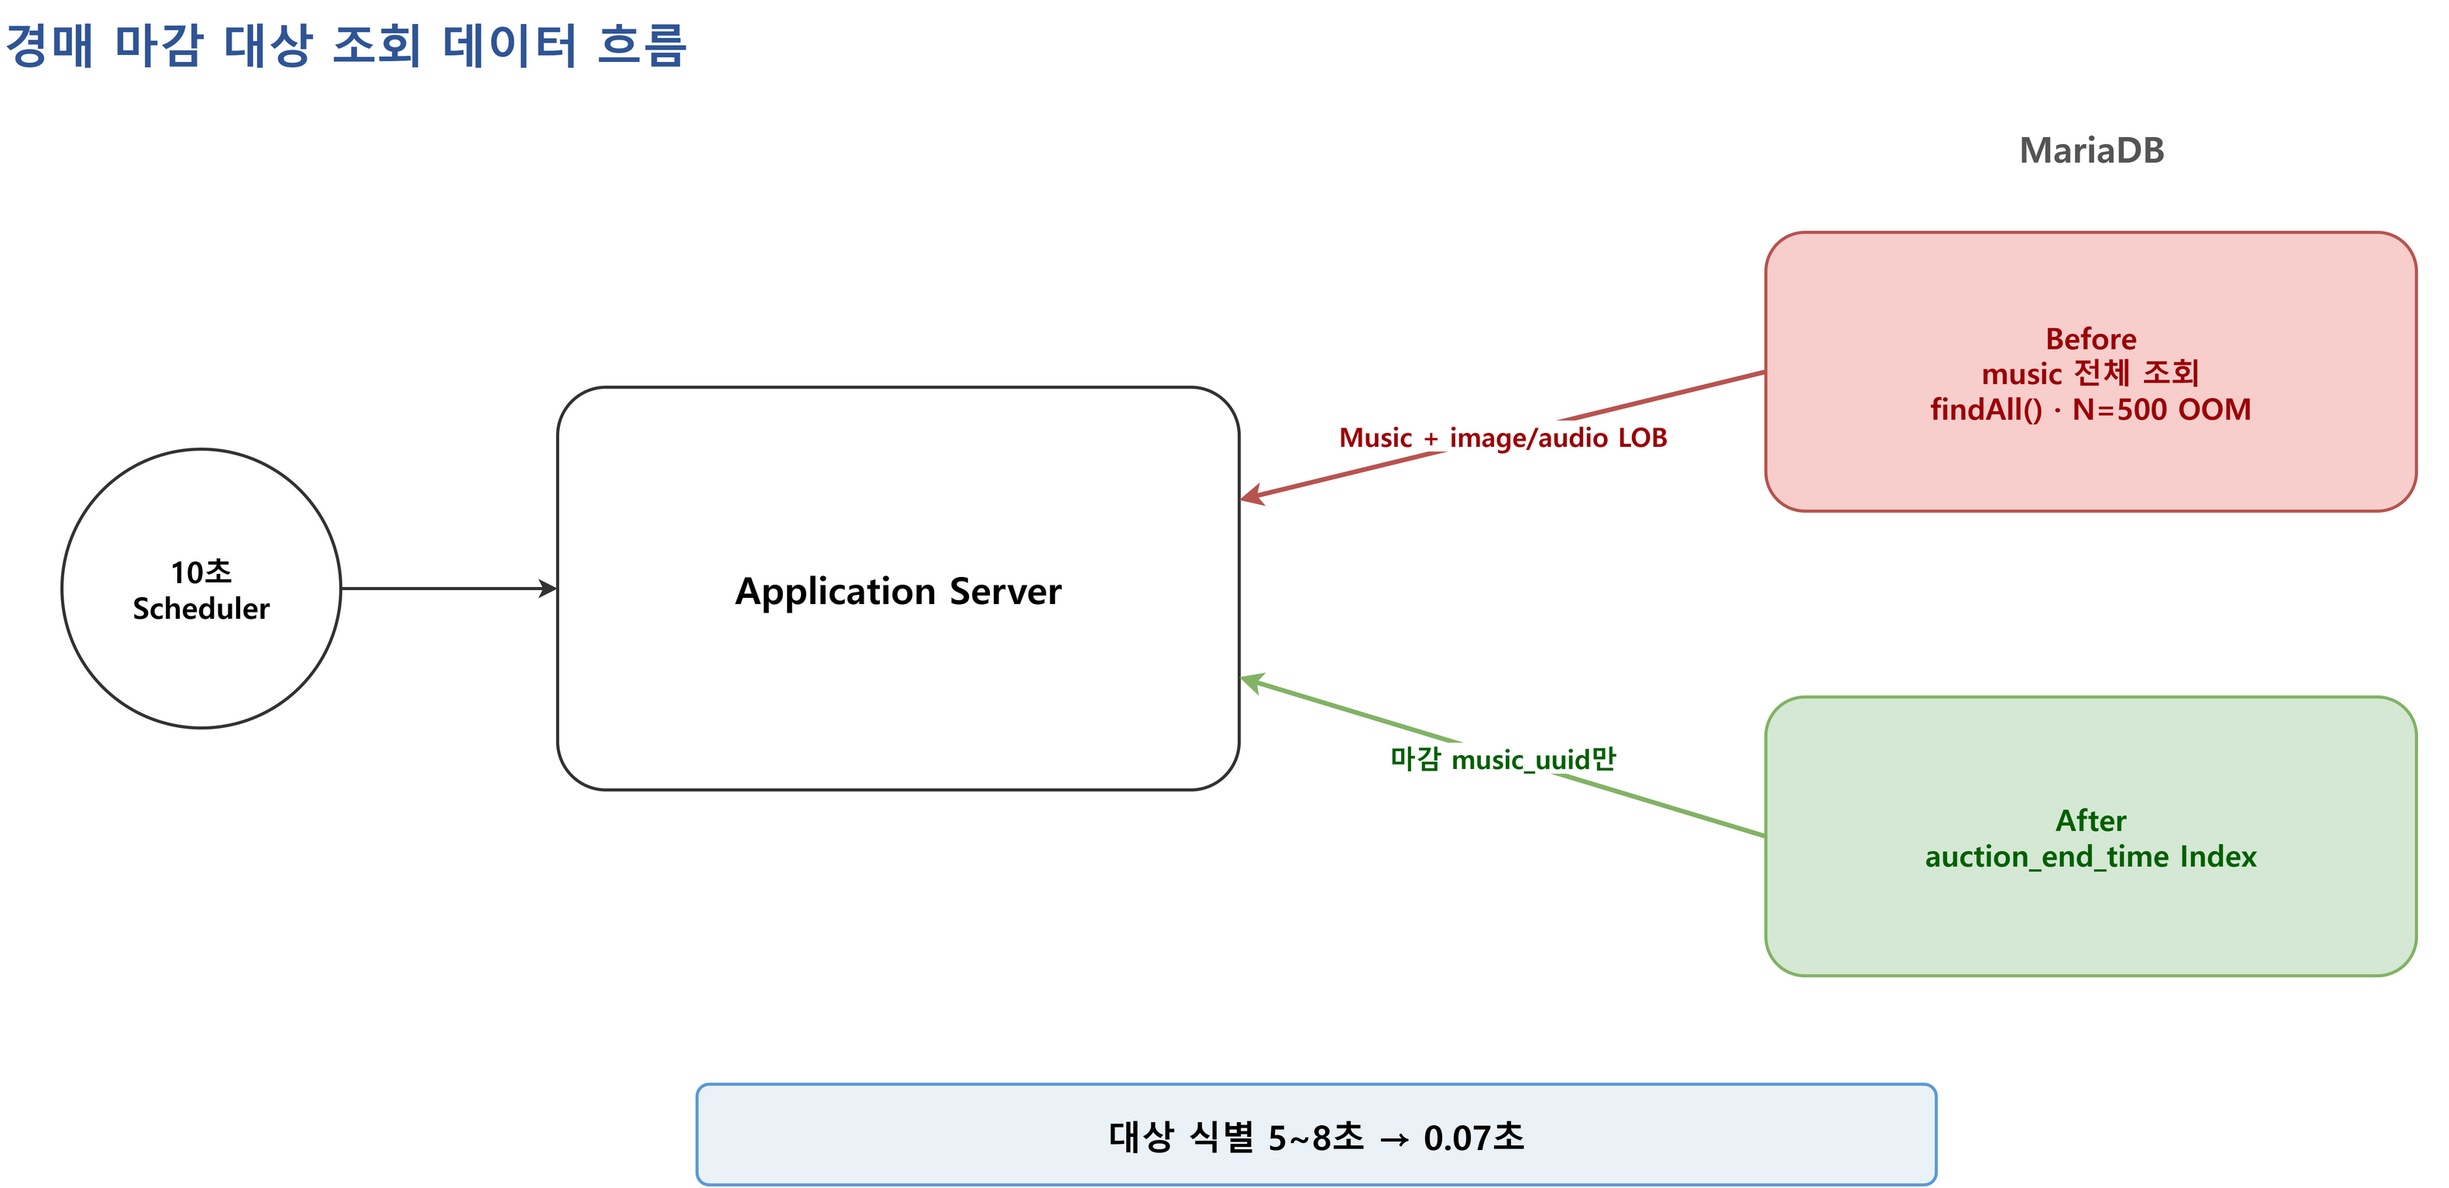
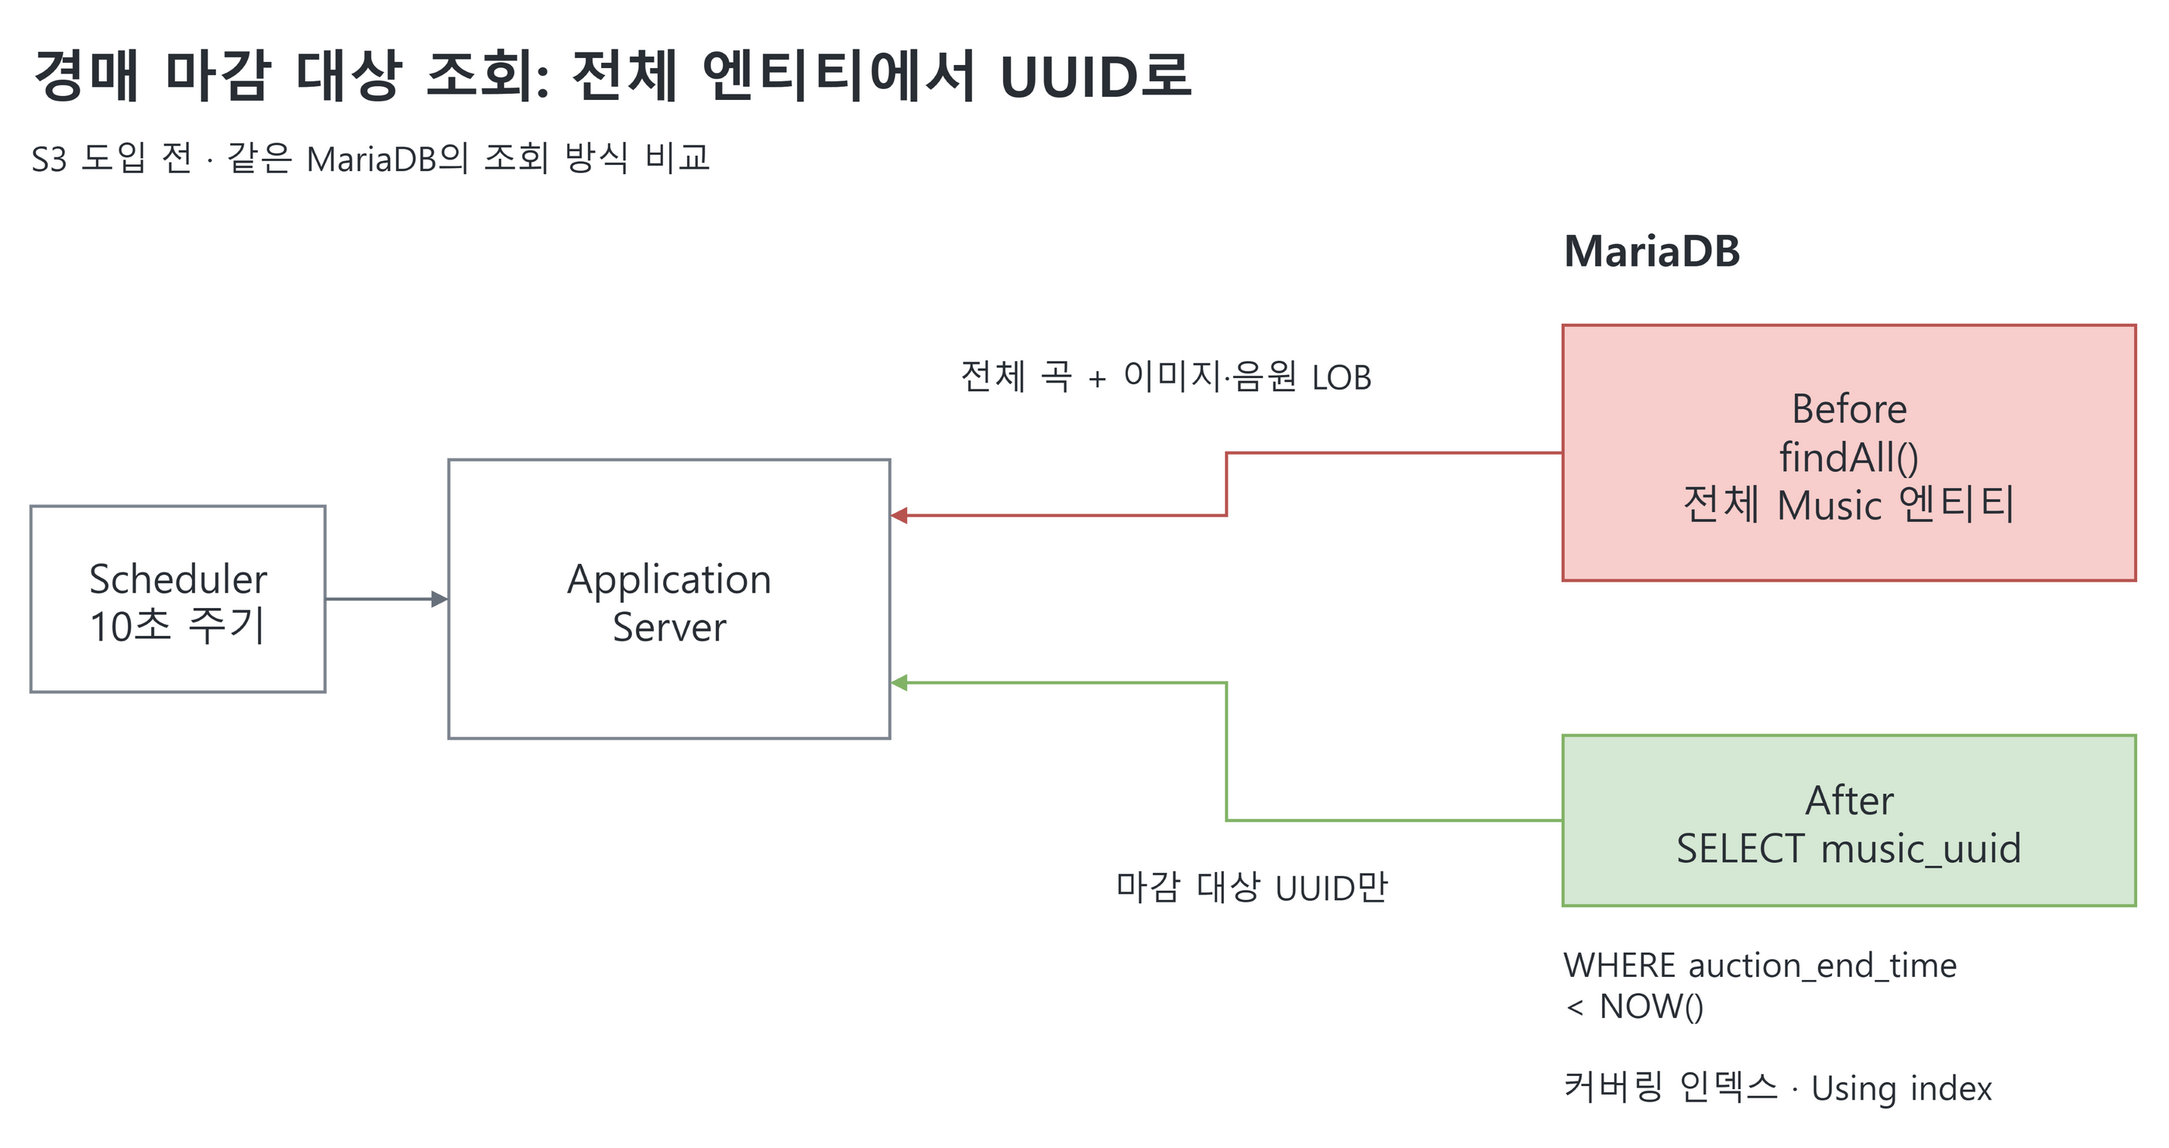
docs: update README with storage, payment and search improvements

diff --git a/README.md b/README.md
@@ -1,16 +1,13 @@
 # NoteNest
 
-**음원을 등록하고 입찰·낙찰·결제로 거래하는 음원 경매 서비스**
-
-- **주요 흐름:** 곡 등록, 경매 입찰, 마감·낙찰, 결제, 음원 다운로드
-- **개선 초점:** 대용량 음원·이미지 로딩으로 발생한 배치와 목록 조회 병목
+음원을 등록하고 입찰·낙찰·결제를 거쳐 거래하는 경매 서비스입니다.
 
 | 구분 | 내용 |
 |---|---|
 | 팀 프로젝트 | 2024년 음원 경매 서비스 개발 |
 | 담당 기능 | 경매 마감·낙찰, 결제 기한·차순위 승계, 이메일, 입찰·낙찰 내역, 사용자별 다운로드·횟수 관리 |
 | 미디어 연동 | 이미지·음원 multipart 등록 및 수정 업로드 보완 |
-| 개인 리팩터링 | 2026년 7월부터 경매 배치·곡 목록 조회 분석 및 개선 |
+| 개인 리팩터링 | 2026년 7~9월 경매 배치와 목록 조회 최적화, S3 이전, 금액 처리 수정, 검색 추가 |
 
 ## 기술 스택
 
@@ -18,27 +15,27 @@
 |---|---|
 | Backend | Java 17 소스 호환, Spring Boot 3.2.5, Spring Security, JWT |
 | Data | Spring Data JPA, QueryDSL, MariaDB 10.11 |
+| 검색 | Elasticsearch 8.11.1, Nori |
+| 객체 저장 | private AWS S3, AWS SDK for Java v2 |
 | 결제·메일 | Iamport REST Client, Spring Mail, Thymeleaf |
 | 로컬 환경 | Docker Compose, smtp4dev |
-| 검증 | JUnit 5, MockMvc, H2, k6, Hibernate SQL 로그, EXPLAIN |
-
-- 개인 리팩터링 추가: QueryDSL 기반 동적 목록 프로젝션, k6 성능 검증
-- 목록 조회 개선 측정·계약 테스트 실행 환경: Java 21.0.12
+| 검증 | JUnit 5, MockMvc, H2, Testcontainers, k6, 검색 qrels, Hibernate SQL 로그, EXPLAIN |
 
 ## 주요 기능
 
-- **곡:** 이미지·음원 등록, 검색·필터·정렬, 좋아요
+- **곡:** S3 이미지·음원 등록, 한국어 검색·BPM·키 필터·정렬, 좋아요
 - **경매:** 입찰, 마감·낙찰 처리, 결제 기한 관리, 차순위 승계
 - **거래 내역:** 입찰·낙찰 내역, 로그인 사용자별 다운로드·횟수 관리
 - **회원·알림:** JWT 인증, 경매 진행에 따른 이메일 알림
 
-## 설계와 개선
+## 주요 개선 사항
 
-- 작업 구분: 팀 프로젝트 종료 후 개인 리팩터링
-- 공통 측정 환경: 로컬 Windows 11, Docker MariaDB 10.11
-- 미디어 시드: 곡당 음원 3MB·커버 이미지 300KB 더미
+팀 프로젝트 종료 후 개인적으로 개선한 내용입니다. 배치·목록 조회 최적화를 먼저 진행하고, 이후 이미지·음원을 S3로 옮겼습니다.
 
-### 1. 경매 마감 대상만 조회해 대용량 미디어 로딩 축소
+- 측정 환경: 로컬 Windows 11, Docker MariaDB 10.11
+- 미디어 테스트 데이터: 곡당 음원 3MB·커버 이미지 300KB
+
+### 1. 경매 마감 대상만 조회하도록 배치 수정
 
 ![경매 마감 대상 조회 개선](docs/images/NA1_경매_마감_대상_조회_Before_After.png)
 
@@ -46,14 +43,14 @@
 
 - 10초 주기 스케줄러에서 `findAll()`로 모든 곡을 읽고 Java에서 마감 여부 판정
 - 곡 엔티티에 포함된 이미지·음원 LOB까지 로딩
-- 곡 수 증가에 따라 전송량·힙 사용량 증가, 500곡 조건에서 OOM 발생
+- 500곡 테스트에서 메모리 부족으로 배치 중단(OOM)
 
 **개선**
 
-- 마감 시각 조건을 DB 조회로 이동, 처리 대상의 UUID만 반환
+- DB에서 마감 시각으로 필터링하고 대상 곡의 UUID만 조회
 - `auction_end_time` 인덱스 추가
 - EXPLAIN의 `Using index`로 대상 UUID 조회의 커버링 인덱스 사용 확인
-- 동일 시드의 낙찰 상태 분포를 비교해 경매 결과 회귀 검증
+- 같은 테스트 데이터로 변경 전후 낙찰 결과가 같은지 확인
 
 **검증 결과**
 
@@ -61,11 +58,11 @@
 |---|---:|---:|
 | 100곡 기준 대상 식별 시간 | 5~8초 | 0.07초 |
 | 대상 식별 시 힙 증가 | 1.3~2.2GB | 약 4MB |
-| 500곡 기준 배치 완주 | OOM으로 0회 | 완주 |
+| 500곡 배치 실행 | OOM으로 중단 | 완료 |
 | 낙찰 결과 분포 | 기준 분포 | 동일 |
 
-- 조건: Java 17, 최대 힙 3.9GB, 전체 곡의 절반을 종료 대상으로 구성
-- 시간 범위: 배치의 대상 식별 단계
+- 조건: S3 도입 전, Java 17, 최대 힙 3.9GB, 전체 곡의 절반을 종료 대상으로 구성
+- 시간은 전체 배치가 아닌 마감 대상 조회 구간에서 측정
 
 **후속 개선: 마감 작업과 결제 후속 작업 분리**
 
@@ -73,7 +70,7 @@
 - 결제 후속 대상: `PENDING` 입찰이 있는 곡
 - 마감 처리 후 다음 사이클의 마감 대상에서 제외
 - 차순위 승계: 동일 사용자의 하위 입찰을 건너뛰고 다른 사용자에게 승계, 최대 2명 유지
-- 고정 Clock 테스트로 반복 실행 시 상태 전이·이메일 호출 무중복 확인
+- Clock을 고정한 반복 실행 테스트로 중복 상태 변경·메일 발송이 없는지 확인
 
 | 지표 | 분리 전 | 분리 후 |
 |---|---:|---:|
@@ -84,14 +81,14 @@
 
 [배치 구현](src/main/java/com/notenest/service/BidServiceImpl.java) · [인덱스 추가 SQL](scripts/migration/phase1-01-add-auction-end-time-index.sql) · [1차 측정 기록](docs/measurements/phase1-after-step1.md) · [대상 분리 측정 기록](docs/measurements/n2-target-separation-before-after.md)
 
-### 2. 곡 목록에서 음원 열 제외·좋아요 N+1 제거
+### 2. 목록 조회의 음원 로딩과 좋아요 N+1 제거
 
 ![곡 목록 조회의 음원 로딩과 N+1 개선](docs/images/NA2_곡_목록_조회_Before_After.png)
 
 **문제**
 
-- 최신순 조회에 적용한 프로젝션을 `maxPrice` 필터 경로가 우회
-- `Specification + findAll`의 엔티티 조회로 목록에 음원 LOB 재포함
+- 최신순 조회는 DTO를 사용했지만, `maxPrice` 필터는 `Specification + findAll`로 엔티티 조회
+- 가격 필터를 쓰면 목록에 필요 없는 음원 LOB까지 다시 로딩
 - 곡마다 로그인 사용자의 좋아요 여부를 추가 조회하는 N+1 발생
 
 **개선**
@@ -99,7 +96,7 @@
 - 목록 전용 DTO로 커버 이미지는 유지하고 음원 열은 SELECT·응답에서 제외
 - 공개 경매 목록의 검색·필터·정렬 분기를 QueryDSL DTO 프로젝션으로 통일
 - 페이지 곡 UUID를 모아 좋아요 여부를 `IN` 쿼리 1회로 조회
-- 계약 테스트 17개로 응답·정렬·검색·필터·실제 SQL의 동등성 검증
+- 테스트 17개로 응답·정렬·검색·필터 동작과 SQL의 음원 열 제외 확인
 
 **검증 결과**
 
@@ -112,48 +109,156 @@
 | 목록 SELECT의 음원 열 | 포함 | 제외 |
 | 커버 이미지 | 포함 | 동일 바이트 유지 |
 
-- 조건: Java 21.0.12, 인증된 `maxPrice` 필터 요청, 페이지 10곡
+- 조건: S3 도입 전, Java 21.0.12, 인증된 `maxPrice` 필터 요청, 페이지 10곡
 - 시드·부하: 곡 100건 중 진행 중 50건, k6 10 VU × 30초 웜 2회차
 - 비교 방식: 같은 머신에서 개선 전후 연속 측정, 전체 SQL은 요청 스레드 기준 집계
 
 [DTO 프로젝션](src/main/java/com/notenest/repository/MusicRepositoryCustomImpl.java) · [좋아요 IN 조회](src/main/java/com/notenest/repository/LikeRepository.java) · [측정 기록](docs/measurements/n1-filter-maxprice-before-after.md)
 
+### 3. 이미지·음원을 DB에서 S3로 이전
+
+![DB와 S3의 저장 책임 및 파일 전달 경로](docs/images/NB1_S3_미디어_저장_구조_Before_After.png)
+
+**문제**
+
+- 조회 쿼리를 줄인 뒤에도 결제 후속 배치가 곡 엔티티를 읽을 때 LOB를 함께 로딩
+- 목록 응답에도 base64 커버 이미지가 남아 전송량 증가
+
+**개선**
+
+- DB에는 관계 데이터·객체 키를 저장하고, 이미지·음원은 private S3로 분리
+- 목록은 커버 URL, 로그인 상세는 미리듣기 URL 제공
+- 전체 데모는 판매자·결제 완료 낙찰자 확인 후 5분 presigned URL 발급
+- 파일 업로드 도중이나 업로드 후 DB 저장에 실패하면 업로드한 객체 삭제 시도
+- 테스트 파일을 S3로 이전하고 누락·크기·SHA-256을 확인한 뒤 DB의 LOB 제거
+
+**검증 결과**
+
+| 지표 | S3 전 | S3 후 |
+|---|---:|---:|
+| 500곡 결제 후속 처리, 5회 평균 | 24.95초 | 1.28초 |
+| 같은 처리 구간의 힙 사용량 | 1.6~2.7GB | 49~211MB |
+| 100곡·페이지 10건 목록 응답 | 4.1MB | 5.9KB |
+| 목록 요청당 SQL | 4회 | 4회 |
+| 백필 재실행 신규 업로드 / 최종 불일치 | 해당 없음 | 0건 / 0건 |
+
+- 조건: Java 17, 로컬 MariaDB 10.11·실제 S3 서울 리전, 더미 음원·커버
+- 배치 처리 대상 167건·SQL 502개는 동일. 파일을 DB에서 읽지 않도록 바꿔 처리 시간과 메모리 사용량 감소
+
+[저장 구현](src/main/java/com/notenest/storage/S3ObjectStorage.java) · [실제 S3 검증](docs/verification/nb1-real-s3-e2e.md) · [백필 검증](docs/verification/nb1-backfill.md) · [재측정](docs/measurements/nb1-after-s3.md)
+
+### 4. 입찰·결제 금액을 원 단위 정수로 통일
+
+**문제·개선**
+
+- 실수형 금액, 결제 배율, 정수 변환을 섞어 사용해 소수 금액 절삭과 오버플로우 발생
+- 금액은 원 단위 정수로 통일하고 소수 입력은 오류로 처리
+
+| 처리 위치 | 변경 내용 |
+|---|---|
+| API 입력 | 소수 JSON은 400, 시작가·입찰가·결제는 1원~100억원 |
+| PG 검증 | `BigDecimal.longValueExact()`로 변환 후 입찰가와 원 단위 직접 비교 |
+| 도메인·DB | `long/BIGINT` 통일 |
+| 데이터 전환 | 비정상 행 탐지 시 중단, 백업·전환 후 행 수·PK·금액 대조 |
+
+**검증 결과**
+
+- 30억원을 변환·저장해도 값이 유지되고, 소수·범위 초과 금액은 거부
+- 입찰가와 결제 금액이 다르거나 PG 조회에 실패하면 성공 결제로 저장하지 않음
+- 테스트 데이터의 타입 변경·백업 복구 후 금액 불일치 0건
+- 조건: Java 17, MariaDB 10.11·H2, 실제 PG 대신 테스트 대역·테스트 데이터 사용
+
+[PG 금액 검증 테스트](src/test/java/com/notenest/payment/PaymentServiceAmountTest.java) · [입찰·결제 흐름 검증](src/test/java/com/notenest/payment/PaymentAmountFlowIntegrationTest.java)
+
+### 5. 한국어 검색 개선과 검색 색인 복구
+
+![Elasticsearch 검색과 DB 원본 기준 색인 복구](docs/images/NB5_검색_읽기모델_동기화_복구.png)
+
+**문제**
+
+- `%keyword%` OR·최신순 검색에서 제목이 정확히 일치하는 곡도 뒤로 밀림
+- 조사·띄어쓰기·단어 순서가 달라지면 원하는 곡을 찾지 못하는 사례 확인
+- Elasticsearch를 추가하면서 DB에 저장한 내용이 검색 색인에 반영되지 않는 경우도 처리
+
+**대안 비교**
+
+| 후보 | 전체 nDCG@5 | 곡명 MRR@5 |
+|---|---:|---:|
+| 기존 LIKE | 0.5084 | 0.3889 |
+| LIKE + 질의 규칙 | 0.8359 | 1.0000 |
+| MariaDB FULLTEXT | 0.8472 | 0.9444 |
+| Elasticsearch + Nori | 0.8860 | 1.0000 |
+
+- 조건: 현장 자문을 참고해 만든 검색어 25개·곡 57개. 구현 전에 정답과 관련도(qrels v1)를 고정
+- 정확 일치 우선 등 질의 규칙만으로 0.51→0.84 개선
+- Nori 적용 후 0.89 기록. 조사·띄어쓰기·단어 순서가 다른 검색에서 추가 개선을 확인해 채택
+
+**개선**
+
+- 검색어가 있으면 Elasticsearch, 없으면 기존 QueryDSL 목록 경로 사용
+- 정확 제목·판매자 우선 규칙과 Nori 분석 결합, BPM 범위·키 필터 추가
+- 기본 정렬은 `_score → created_at → music_id`. 기존 정렬 옵션·페이지·좋아요·커버 URL 유지
+- 커밋 후 단일 쓰기 스레드에서 색인 갱신, 최대 3회 시도 후 미확인 기록
+- 기동 시와 10분마다 DB·색인의 ID와 `source_hash` 비교. 누락·불일치는 갱신하고 DB에 없는 문서는 삭제
+
+**검증 결과**
+
+| 항목 | 결과 |
+|---|---|
+| 누락·내용 불일치·삭제 잔존·색인 전체 유실 | 원본 기준 복구, 재대조 변경 0건 |
+| ES 쓰기 차단 중 곡 등록 | 201·DB 저장 유지, 후속 대조로 복구 |
+| ES 검색 장애 | 검색어 요청 503, 무검색 목록 200 |
+| 10,000곡 검색 p90 | LIKE 42.68ms → ES 12.93ms |
+| 추가 자원 | ES 컨테이너 최고 1,273.9MiB / 상한 1.5GiB |
+
+- 성능 조건: Java 17, 로컬 MariaDB 10.11·ES 8.11.1+Nori, 25질의·10 VU×30초, 웜 3회 평균
+- 직접 만든 평가셋의 결과이며 실제 사용자 검색 로그를 측정한 수치는 아님
+
+[기술 선택](docs/nb5/adr-001-search-engine.md) · [동기화·복구](docs/nb5/phase4-index-sync.md) · [최종 검증](docs/nb5/phase5-final-verification.md)
+
 ## 검증 코드
 
 | 검증 항목 | 테스트·스크립트 |
 |---|---|
-| 음원 제외·커버 보존·검색·필터·정렬·좋아요 매핑 | [MusicFilterContractTest](src/test/java/com/notenest/contract/MusicFilterContractTest.java) |
+| 목록 응답·커버 URL·필터·정렬·좋아요·검색 호출 | [MusicFilterContractTest](src/test/java/com/notenest/contract/MusicFilterContractTest.java) |
 | 경매 마감·결제 기한·차순위 승계 | [AuctionLifecycleScenariosTest](src/test/java/com/notenest/batch/AuctionLifecycleScenariosTest.java) |
 | 동일 사용자의 중복 입찰 처리 | [AuctionEndSameBidderPromotionTest](src/test/java/com/notenest/batch/AuctionEndSameBidderPromotionTest.java) |
-| 고정 시각 반복 실행의 상태·이메일 무중복 | [AuctionBatchIdempotencyTest](src/test/java/com/notenest/batch/AuctionBatchIdempotencyTest.java) |
+| 반복 실행 시 중복 상태 변경·메일 발송 방지 | [AuctionBatchIdempotencyTest](src/test/java/com/notenest/batch/AuctionBatchIdempotencyTest.java) |
 | 인증된 가격 필터 목록 부하 | [list-api-perf-maxprice.js](scripts/k6/list-api-perf-maxprice.js) |
+
+- 2026-09-26 기준 기본 테스트 222개·실제 ES 통합 테스트 17개 통과
+- 미디어 접근 권한·업로드 실패 처리: [MediaAccessContractTest](src/test/java/com/notenest/contract/MediaAccessContractTest.java), [MusicStorageFlowTest](src/test/java/com/notenest/contract/MusicStorageFlowTest.java)
+- 검색·복구: [MusicSearchQualityIT](src/test/java/com/notenest/search/it/MusicSearchQualityIT.java), [MusicSearchSyncIT](src/test/java/com/notenest/search/it/MusicSearchSyncIT.java)
 
 ## 로컬 실행
 
 - 준비: JDK 21, Docker Compose
 - 빌드 설정: Java 17 소스 호환
 - 설정 확인: [기본 설정](src/main/resources/application.properties), [local 설정](src/main/resources/application-local.properties)
-- [Compose 구성](docker-compose.yml): MariaDB `localhost:3311`, SMTP `localhost:2525`
+- [Compose 구성](docker-compose.yml): MariaDB `localhost:3311`, Elasticsearch+Nori `localhost:9201`, SMTP `localhost:2525`
 - 로컬 메일 확인: smtp4dev 웹 UI `localhost:5001`
 
 ```powershell
-docker compose up -d
+docker compose up -d --build
 .\gradlew.bat bootRun --args="--spring.profiles.active=local"
 ```
 
 - 애플리케이션: `localhost:8086`
 - macOS·Linux: `./gradlew bootRun --args='--spring.profiles.active=local'`
 - 결제 연동 설정: `IMP_CODE`, `IMP_API_KEY`, `IMP_API_SECRET`
+- 미디어 업로드·URL 발급: `NOTENEST_S3_BUCKET`, `AWS_REGION`(기본 `ap-northeast-2`), AWS SDK 기본 자격증명 체인 설정
+- 검색 연결: `NOTENEST_ES_URIS`(기본 `http://localhost:9201`), 기동 시 DB 기준 색인 대조
+- 관련도순 API 호출: `sortBy` 생략. 명시적 `sortBy=latest`는 최신순
 
 **테스트**
 
-- 경매 상태 테스트: H2 기반 테스트 픽스처·고정 Clock 사용
-- 목록 계약 테스트: 실행 중인 로컬 MariaDB와 [곡 시드](scripts/seed/seed-music.sql) 필요
-- 목록 계약 테스트는 시드 부재 시 건너뛰므로 실행 결과의 skipped 항목 확인
-- 시드 적용·부하 실험은 전용 로컬 DB에서 수행
+- 기본 테스트: H2·전용 MariaDB 사용. 실제 Elasticsearch 없이 테스트 대역·연결 실패 조건으로 실행
+- 목록 계약 테스트: 로컬 MariaDB `3311`의 전용 `notenest_contract` DB, 자체 픽스처·스키마 생성 및 제거
+- 실제 검색 통합 테스트: Docker의 Testcontainers로 ES+Nori 생성, API 테스트용 로컬 MariaDB 필요
 
 ```powershell
 .\gradlew.bat test
+.\gradlew.bat nb5IntegrationTest
 ```
 
 ## 코드 구조
@@ -165,6 +270,9 @@ src/main/java/com/notenest/
 ├── repository/  # JPA·QueryDSL 조회
 ├── domain/      # 곡·입찰·회원 엔티티
 ├── dto/         # 요청·응답 및 목록 프로젝션
+├── storage/     # S3 업로드·서명 URL·미디어 검증
+├── search/      # 검색·색인 동기화·대조 복구
+├── payment/     # PG 경계·금액 처리
 ├── jwt/         # JWT 인증
 ├── config/      # 보안·쿼리·시각 설정
 └── validator/   # 입력 검증
